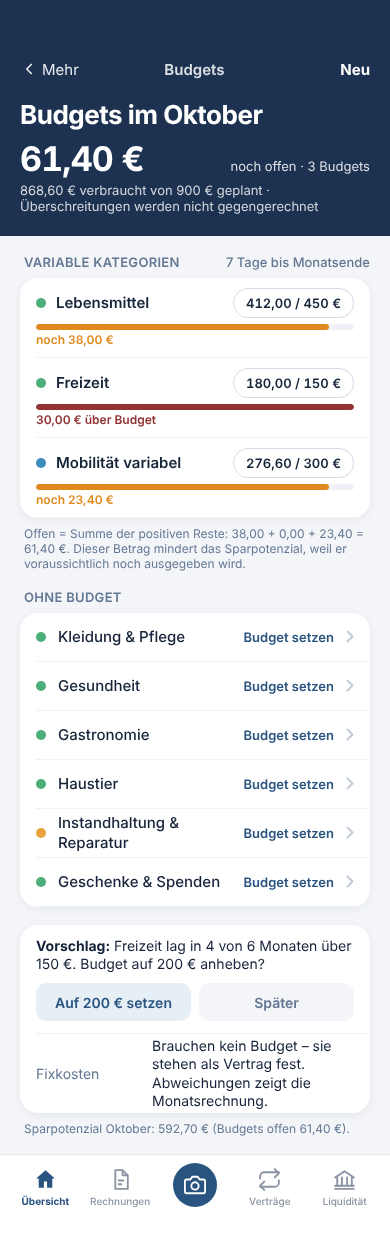
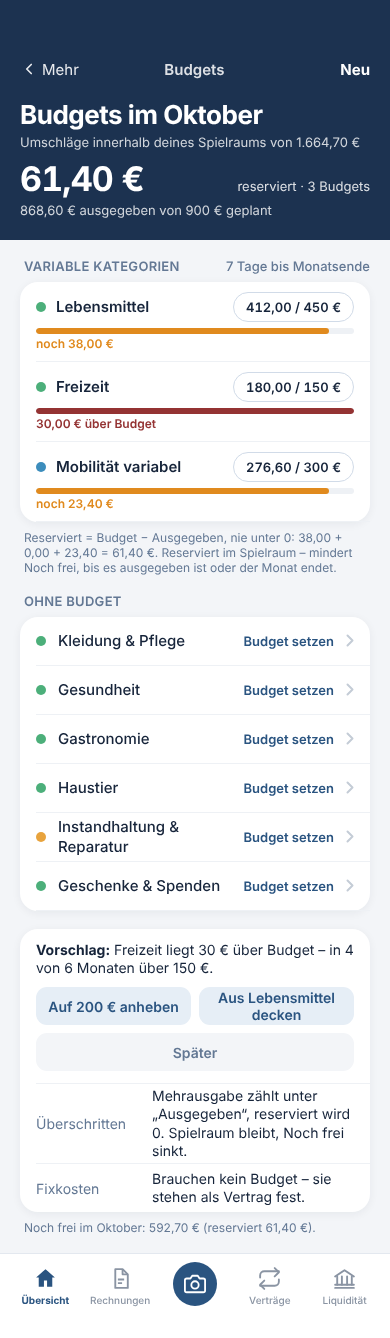
Konzept 2.0.0: Monatsrechnung in drei Stufen – Spielraum, Noch frei, Gespart
Nach Recherche (Finanzguru, Monarch, YNAB, Emma): Sparen ist keine Ausgabe, Budgets sind
Umschläge im Spielraum, Überschreitung macht nichts negativ.
- Kopfzahl heißt 'Noch frei' (statt Sparpotenzial); Spielraum = Einnahmen − Fixkosten − Rücklagen-Raten;
  Noch frei = Spielraum − Ausgegeben − in Budgets reserviert; Gespart = Rücklagen + Überschuss, Sparquote
- Übersicht: Balkenpaar mit Fixkosten · Sparen (grün) · Ausgegeben · Reserviert · Noch frei
- Monatsrechnung: drei Blöcke Monatsanfang / Im Monat / Monatsende mit Zwischensummen
- Budgets: Spielraum im Kopf, Regeln für Reserviert und Überschreitung, 'Aus Lebensmittel decken'
- Alle Texte (Vertrag, Rücklage, Einnahmen, Auswertung, Kontostand) auf die neuen Begriffe umgestellt
- funktionsmodell.md: Glossar und neuer Abschnitt 'Monatsrechnung: drei Stufen'; README/Darstellungsarchitektur angepasst

Claude-Session: https://claude.ai/code/session_0112K5J9EfnvdznECFdoQGko

diff --git a/docs/konzept-2.0.0/design/Monatsrechnung.dc.html b/docs/konzept-2.0.0/design/Monatsrechnung.dc.html
@@ -142,34 +142,48 @@ a{color:#2A5480}
 <div class="scroll">
   <div class="hdr">
     <div class="nav"><a class="back" href="Main.dc.html"><svg aria-hidden="true" width="18" height="18" viewBox="0 0 24 24" fill="none" stroke="currentColor" stroke-width="2.2" stroke-linecap="round" stroke-linejoin="round"><path d="M15 6l-6 6 6 6"/></svg>Übersicht</a><p class="ttl">Oktober 2026</p><span style="width: 60px"></span></div>
-    <h1>Sparpotenzial {{spar}} €</h1>
-    <p class="sub">So setzt sich die Zahl zusammen – jede Zeile führt zur Quelle. Antippen der Pfeile zeigt die Einzelposten.</p>
+    <h1>Noch frei {{spar}} €</h1>
+    <p class="sub">Drei Schritte: Plan am Monatsanfang, Verlauf im Monat, Ergebnis am Monatsende. Pfeile zeigen die Einzelposten.</p>
   </div>
 
   <div style="padding: 18px 20px 0 20px">
+    <h2 class="h2">Monatsanfang · Plan <span>steht fest</span></h2>
     <div class="card">
-      <sc-for list="{{rows}}" as="r" hint-placeholder-count="5">
-        <div class="row" style="padding-right: 8px"><a href="{{r.href}}" style="flex: 1; min-width: 0; text-decoration: none; color: inherit"><p class="n">{{r.name}}</p><p class="s2">{{r.sub}}</p></a><p class="v" style="{{r.st}}">{{r.val}}</p><button class="chip lt" style="height: 30px; width: 30px; padding: 0; justify-content: center" aria-label="Einzelposten" onClick="{{r.toggle}}">{{r.arrow}}</button></div>
+      <sc-for list="{{plan}}" as="r" hint-placeholder-count="3">
+        <div class="row" style="padding-right: 8px"><a href="{{r.href}}" style="flex: 1; min-width: 0; text-decoration: none; color: inherit"><p class="n">{{r.name}}</p><p class="s">{{r.sub}}</p></a><p class="v" style="{{r.st}}">{{r.val}}</p><button class="chip lt" style="height: 30px; width: 30px; padding: 0; justify-content: center" aria-label="Einzelposten" onClick="{{r.toggle}}">{{r.arrow}}</button></div>
         <sc-if value="{{r.open}}" hint-placeholder-val="{{false}}"><div style="padding: 0 16px 10px 16px"><sc-for list="{{r.items}}" as="i" hint-placeholder-count="3"><div style="display: flex; justify-content: space-between; gap: 10px; font-size: 13px; color: #637894; padding: 3px 0"><span style="flex: 1; min-width: 0">{{i.n}}</span><span style="font-variant-numeric: tabular-nums; white-space: nowrap">{{i.v}}</span></div></sc-for></div></sc-if>
         <div class="sep"></div>
       </sc-for>
-      <div class="row" style="background: #F3F5F8; border-radius: 0 0 18px 18px"><div class="mid"><p class="n">Sparpotenzial</p><p class="s">kann am Monatsende in eine Rücklage</p></div><p class="v">{{spar}}</p></div>
+      <div class="row" style="background: #F3F5F8; border-radius: 0 0 18px 18px"><div class="mid"><p class="n">Spielraum (variabel)</p></div><p class="v" style="font-size: 17px">{{raum}}</p></div>
     </div>
   </div>
-
-  <div style="padding: 20px 20px 0 20px">
+  <div style="padding: 18px 20px 0 20px">
+    <h2 class="h2">Im Monat <span>läuft</span></h2>
     <div class="card">
-      <div class="row"><div class="mid"><p class="n">Bereiche</p><p class="s2">Wohnen 1.368,18 · Mobilität 746,19 · Haushalt 881,53</p></div><p class="v">{{areas}}</p></div>
-      <div class="sep"></div>
-      <div class="row"><div class="mid"><p class="n">Fixkosten + Ausgaben + Raten</p><p class="s">1.659,20 + 1.010,60 + 326,10</p></div><p class="v">{{areas2}}</p></div>
+      <sc-for list="{{run}}" as="r" hint-placeholder-count="3">
+        <div class="row" style="padding-right: 8px"><a href="{{r.href}}" style="flex: 1; min-width: 0; text-decoration: none; color: inherit"><p class="n">{{r.name}}</p><p class="s">{{r.sub}}</p></a><p class="v" style="{{r.st}}">{{r.val}}</p><button class="chip lt" style="height: 30px; width: 30px; padding: 0; justify-content: center" aria-label="Einzelposten" onClick="{{r.toggle}}">{{r.arrow}}</button></div>
+        <sc-if value="{{r.open}}" hint-placeholder-val="{{false}}"><div style="padding: 0 16px 10px 16px"><sc-for list="{{r.items}}" as="i" hint-placeholder-count="3"><div style="display: flex; justify-content: space-between; gap: 10px; font-size: 13px; color: #637894; padding: 3px 0"><span style="flex: 1; min-width: 0">{{i.n}}</span><span style="font-variant-numeric: tabular-nums; white-space: nowrap">{{i.v}}</span></div></sc-for></div></sc-if>
+        <div class="sep"></div>
+      </sc-for>
+      <div class="row" style="background: #F3F5F8; border-radius: 0 0 18px 18px"><div class="mid"><p class="n">Noch frei</p></div><p class="v" style="font-size: 17px; color: #215F33">{{spar}}</p></div>
     </div>
-    <p class="note">Nicht enthalten: der Kontostand. Den gibt es nur in der Liquidität.</p>
+  </div>
+  <div style="padding: 18px 20px 0 20px">
+    <h2 class="h2">Monatsende <span>voraussichtlich</span></h2>
+    <div class="card">
+      <div class="row"><div class="mid"><p class="n">Gespart</p><p class="s">Rücklagen {{resFmt}} + Überschuss {{spar}}</p></div><p class="v" style="color: #215F33">{{saved}}</p></div>
+      <div class="sep"></div>
+      <div class="row"><div class="mid"><p class="n">Sparquote</p><p class="s">Gespart ÷ Einnahmen</p></div><p class="v">{{quote}} %</p></div>
+      <div class="sep"></div>
+      <div class="row"><div class="mid"><p class="n">Bereiche zusammen</p><p class="s">Wohnen 1.368,18 · Mobilität 746,19 · Haushalt 881,53</p></div><p class="v">{{areas}}</p></div>
+    </div>
+    <p class="note">Bereiche = Fixkosten + Ausgaben + Rücklagen-Raten = {{areas2}} €. Der Kontostand kommt hier nicht vor – den gibt es nur in der Liquidität.</p>
   </div>
 
   <div style="padding: 16px 20px 0 20px; display: flex; gap: 10px">
-    <button class="btn pri" onClick="{{openTransfer}}">{{spar}} € in Rücklage übertragen</button>
+    <button class="btn pri" onClick="{{openTransfer}}">Überschuss in Rücklage übertragen</button>
   </div>
-<sc-if value="{{transfer}}" hint-placeholder-val="{{false}}"><div class="sheetbg"><div class="sheet"><div class="grab"></div><h3>Wohin übertragen?</h3><p>Der Monat ist noch nicht abgeschlossen – offene Posten können das Sparpotenzial noch ändern. Übertragen wird am Monatsende mit dem dann gültigen Wert.</p><div class="card" style="margin-bottom: 12px"><sc-for list="{{targets}}" as="t" hint-placeholder-count="3"><button class="f" onClick="{{t.pick}}"><p class="v" style="font-weight: 500">{{t.name}}</p><p class="v ph" style="flex: none; width: auto; font-size: 13px">{{t.sub}}</p><span class="{{t.cls}}" style="width: 20px; height: 20px; border-width: 2px"></span></button><div class="sep"></div></sc-for></div><div style="display: flex; gap: 10px"><button class="btn sec2" onClick="{{closeTransfer}}">Abbrechen</button><button class="btn pri" onClick="{{confirmTransfer}}">Vormerken</button></div></div></div></sc-if>
+<sc-if value="{{transfer}}" hint-placeholder-val="{{false}}"><div class="sheetbg"><div class="sheet"><div class="grab"></div><h3>Wohin übertragen?</h3><p>Der Monat ist noch nicht abgeschlossen – offene Posten können den Überschuss noch ändern. Übertragen wird am Monatsende mit dem dann gültigen Wert.</p><div class="card" style="margin-bottom: 12px"><sc-for list="{{targets}}" as="t" hint-placeholder-count="3"><button class="f" onClick="{{t.pick}}"><p class="v" style="font-weight: 500">{{t.name}}</p><p class="v ph" style="flex: none; width: auto; font-size: 13px">{{t.sub}}</p><span class="{{t.cls}}" style="width: 20px; height: 20px; border-width: 2px"></span></button><div class="sep"></div></sc-for></div><div style="display: flex; gap: 10px"><button class="btn sec2" onClick="{{closeTransfer}}">Abbrechen</button><button class="btn pri" onClick="{{confirmTransfer}}">Vormerken</button></div></div></div></sc-if>
 </div>
 
   <nav class="tabbar" aria-label="Hauptnavigation">
@@ -200,13 +214,16 @@ function nbDeep(v, key, depth) {
 
 class Component extends DCLogic {
   constructor(p) { super(p); this.state = { open: {}, transfer: false, target: 0, planned: '', toast: '' };
-    this.ROWS = [
+    this.PLAN = [
       { name: 'Einnahmen', sub: 'Gehalt 3.400 · Kindergeld 250', val: 3650, sign: 1, href: 'Einnahmen.dc.html', items: [['Gehalt Muster AG (30. Okt.)', '3.400,00'], ['Kindergeld (5. Okt.)', '250,00']] },
       { name: 'Fixkosten & Kredite', sub: '16 Verträge · 3 Bereiche', val: 1659.20, sign: -1, href: 'Vertraege.dc.html', items: [['Wohnen · Miete, Strom, Gas, Internet, Rundfunk', '1.218,35'], ['Mobilität · Leasing, D-Ticket, Ladetarif', '356,99'], ['Haushalt · Mobilfunk, Streaming, Fitness', '83,86']] },
-      { name: 'Ausgaben des Monats', sub: 'bezahlt 656,20 · offen 354,40', val: 1010.60, sign: -1, href: 'Rechnungen.dc.html', items: [['Bons Lebensmittel, Freizeit · bezahlt', '592,00'], ['EnBW Laden · bezahlt 16. Okt.', '64,20'], ['Stadtwerke Nachzahlung · überfällig', '142,00'], ['Autohaus Keller · fällig 30. Okt.', '212,40']] },
-      { name: 'Budgets, noch offen', sub: 'Lebensmittel 38,00 · Mobilität 23,40', val: 61.40, sign: -1, href: 'Budgets.dc.html', items: [['Lebensmittel 450 − 412', '38,00'], ['Mobilität variabel 300 − 276,60', '23,40'], ['Freizeit 150 − 180 · überschritten', '0,00']] },
-      { name: 'Rücklagen-Raten', sub: '6 Raten · Urlaub, Kfz, Versicherungen', val: 326.10, sign: -1, href: 'Ruecklage.dc.html', items: [['Urlaub Juli (Sparziel)', '200,00'], ['HU und Reifen (Termin)', '60,00'], ['Kfz-Versicherung 487,20 ÷ 12', '40,60'], ['Kfz-Steuer 144 ÷ 12', '12,00'], ['Hausrat 94 ÷ 12', '7,83'], ['Haftpflicht 68 ÷ 12', '5,67']] }
-    ]; }
+      { name: 'Rücklagen-Raten', sub: 'Sparen mit Zweck · 6 Raten', val: 326.10, sign: -1, href: 'Ruecklage.dc.html', items: [['Urlaub Juli (Sparziel)', '200,00'], ['HU und Reifen (Termin)', '60,00'], ['Kfz-Versicherung 487,20 ÷ 12', '40,60'], ['Kfz-Steuer 144 ÷ 12', '12,00'], ['Hausrat 94 ÷ 12', '7,83'], ['Haftpflicht 68 ÷ 12', '5,67']] }
+    ];
+    this.RUN = [
+      { name: 'Ausgegeben', sub: 'bezahlt 656,20 · offen 354,40', val: 1010.60, sign: -1, href: 'Rechnungen.dc.html', items: [['Bons Lebensmittel, Freizeit · bezahlt', '592,00'], ['EnBW Laden · bezahlt 16. Okt.', '64,20'], ['Stadtwerke Nachzahlung · überfällig', '142,00'], ['Autohaus Keller · fällig 30. Okt.', '212,40']] },
+      { name: 'In Budgets reserviert', sub: 'Budget − Ist, nie unter 0', val: 61.40, sign: -1, href: 'Budgets.dc.html', items: [['Lebensmittel 450 − 412', '38,00'], ['Mobilität variabel 300 − 276,60', '23,40'], ['Freizeit 150 − 180 · überschritten', '0,00']] }
+    ];
+    }
 
   segItems(key, options) { var self = this; return options.map(function (o) { return { label: o[1], cls: self.state[key] === o[0] ? 'on' : '', pick: function () { var s = {}; s[key] = o[0]; self.setState(s); } }; }); }
   chipItems(key, options, light) { var self = this; var base = light ? 'chip lt' : 'chip'; return options.map(function (o) { return { label: o[1], cls: self.state[key] === o[0] ? base + ' on' : base, pick: function () { var s = {}; s[key] = o[0]; self.setState(s); } }; }); }
@@ -218,15 +235,18 @@ class Component extends DCLogic {
 
   renderVals() {
     var self = this, s = this.state;
-    var spar = this.ROWS.reduce(function (a, r) { return a + r.sign * r.val; }, 0);
+    var raum = this.PLAN.reduce(function (a, r) { return a + r.sign * r.val; }, 0);
+    var spar = raum + this.RUN.reduce(function (a, r) { return a + r.sign * r.val; }, 0);
+    var res = 326.10, saved = res + spar, quote = Math.round(saved / 3650 * 100);
+    var mkRows = function (list, key) { return list.map(function (r, i) { var id = key + i, open = !!s.open[id]; return { name: r.name, sub: r.sub, val: (r.sign > 0 ? '+' : '−') + eur(r.val), st: r.sign > 0 ? 'color: #215F33' : '', href: r.href, open: open, arrow: open ? '▾' : '▸', items: r.items.map(function (x) { return { n: x[0], v: x[1] }; }), toggle: function () { var o = Object.assign({}, s.open); o[id] = !open; self.setState({ open: o }); } }; }); };
     var targets = [['Urlaub Juli', 'Sparziel · 640 von 1.800 €'], ['HU und Reifen', 'Termin · 120 von 190 €'], ['Neue Rücklage anlegen', 'Name und Ziel im nächsten Schritt']];
     return {
       toast: s.toast,
-      spar: eur(spar), areas: eur(1368.18 + 746.19 + 881.53), areas2: eur(1659.20 + 1010.60 + 326.10),
-      rows: this.ROWS.map(function (r, i) { var open = !!s.open[i]; return { name: r.name, sub: r.sub, val: (r.sign > 0 ? '+' : '−') + eur(r.val), st: r.sign > 0 ? 'color: #215F33' : '', href: r.href, open: open, arrow: open ? '▾' : '▸', items: r.items.map(function (x) { return { n: x[0], v: x[1] }; }), toggle: function () { var o = Object.assign({}, s.open); o[i] = !open; self.setState({ open: o }); } }; }),
+      spar: eur(spar), raum: eur(raum), resFmt: eur(res), saved: eur(saved), quote: quote, areas: eur(1368.18 + 746.19 + 881.53), areas2: eur(1659.20 + 1010.60 + 326.10),
+      plan: mkRows(this.PLAN, 'p'), run: mkRows(this.RUN, 'r'),
       transfer: s.transfer, openTransfer: this.go('transfer', true), closeTransfer: this.go('transfer', false),
       targets: targets.map(function (t, i) { return { name: t[0], sub: t[1], cls: s.target === i ? 'chk on' : 'chk', pick: function () { self.setState({ target: i }); } }; }),
-      confirmTransfer: function () { self.setState({ transfer: false, planned: targets[s.target][0] }); self.say('Vorgemerkt: Sparpotenzial am 31. Okt. → ' + targets[s.target][0]); }
+      confirmTransfer: function () { self.setState({ transfer: false, planned: targets[s.target][0] }); self.say('Vorgemerkt: Überschuss am 31. Okt. → ' + targets[s.target][0]); }
     };
   }
 }

diff --git a/docs/konzept-2.0.0/design/Budgets.dc.html b/docs/konzept-2.0.0/design/Budgets.dc.html
@@ -143,8 +143,9 @@ a{color:#2A5480}
   <div class="hdr">
     <div class="nav"><a class="back" href="Mehr.dc.html"><svg aria-hidden="true" width="18" height="18" viewBox="0 0 24 24" fill="none" stroke="currentColor" stroke-width="2.2" stroke-linecap="round" stroke-linejoin="round"><path d="M15 6l-6 6 6 6"/></svg>Mehr</a><p class="ttl">Budgets</p><button class="act" onClick="{{openNew}}">Neu</button></div>
     <h1>Budgets im Oktober</h1>
-    <div style="display: flex; align-items: baseline; justify-content: space-between; gap: 14px; margin-top: 12px"><p class="big" style="margin: 0">{{offen}} €</p><p style="margin: 0; font-size: 13px; opacity: .85; text-align: right; white-space: nowrap">noch offen · {{count}} Budgets</p></div>
-    <p class="sub">{{verbraucht}} € verbraucht von {{geplant}} € geplant · Überschreitungen werden nicht gegengerechnet</p>
+    <p class="sub" style="margin-top: 4px">Umschläge innerhalb deines Spielraums von 1.664,70 €</p>
+    <div style="display: flex; align-items: baseline; justify-content: space-between; gap: 14px; margin-top: 12px"><p class="big" style="margin: 0">{{offen}} €</p><p style="margin: 0; font-size: 13px; opacity: .85; text-align: right; white-space: nowrap">reserviert · {{count}} Budgets</p></div>
+    <p class="sub">{{verbraucht}} € ausgegeben von {{geplant}} € geplant</p>
   </div>
 
   <div style="padding: 18px 20px 0 20px">
@@ -159,7 +160,7 @@ a{color:#2A5480}
         <div class="sep"></div>
       </sc-for>
     </div>
-    <p class="note">{{formula}} Dieser Betrag mindert das Sparpotenzial, weil er voraussichtlich noch ausgegeben wird.</p>
+    <p class="note">{{formula}} Reserviert im Spielraum – mindert Noch frei, bis es ausgegeben ist oder der Monat endet.</p>
   </div>
 
   <div style="padding: 18px 20px 0 20px">
@@ -175,8 +176,10 @@ a{color:#2A5480}
 
   <div style="padding: 18px 20px 0 20px">
     <div class="card">
-      <sc-if value="{{showSug}}" hint-placeholder-val="{{true}}"><div class="f" style="flex-direction: column; align-items: stretch; gap: 10px; padding-top: 12px; padding-bottom: 12px"><p class="v wrap"><b>Vorschlag:</b> Freizeit lag in 4 von 6 Monaten über 150 €. Budget auf 200 € anheben?</p><div style="display: flex; gap: 8px"><button class="btn sec2 sm" onClick="{{applySug}}">Auf 200 € setzen</button><button class="btn sm" style="background: #F3F5F8; color: #637894" onClick="{{dismissSug}}">Später</button></div></div><div class="sep"></div></sc-if>
-      <div class="f"><p class="l">Fixkosten</p><p class="v wrap">Brauchen kein Budget – sie stehen als Vertrag fest. Abweichungen zeigt die Monatsrechnung.</p></div>
+      <sc-if value="{{showSug}}" hint-placeholder-val="{{true}}"><div class="f" style="flex-direction: column; align-items: stretch; gap: 10px; padding-top: 12px; padding-bottom: 12px"><p class="v wrap"><b>Vorschlag:</b> Freizeit liegt 30 € über Budget – in 4 von 6 Monaten über 150 €.</p><div style="display: flex; gap: 8px; flex-wrap: wrap"><button class="btn sec2 sm" style="flex: 1 1 150px" onClick="{{applySug}}">Auf 200 € anheben</button><button class="btn sec2 sm" style="flex: 1 1 150px" onClick="{{coverSug}}">Aus Lebensmittel decken</button><button class="btn sm" style="background: #F3F5F8; color: #637894" onClick="{{dismissSug}}">Später</button></div></div><div class="sep"></div></sc-if>
+      <div class="f"><p class="l">Überschritten</p><p class="v wrap">Mehrausgabe zählt unter „Ausgegeben“, reserviert wird 0. Spielraum bleibt, Noch frei sinkt.</p></div>
+      <div class="sep"></div>
+      <div class="f"><p class="l">Fixkosten</p><p class="v wrap">Brauchen kein Budget – sie stehen als Vertrag fest.</p></div>
     </div>
     <p class="note">{{sparNote}}</p>
   </div>
@@ -234,18 +237,19 @@ class Component extends DCLogic {
       offen: eur(offen), count: s.budgets.length, geplant: eur(geplant, 0), verbraucht: eur(verbraucht),
       rows: s.budgets.map(function (b) { var over = b.spent > b.budget, pct = b.budget > 0 ? Math.min(100, Math.round(b.spent / b.budget * 100)) : 100, left = b.budget - b.spent, c = over ? '#943333' : (pct >= 85 ? '#E08A1E' : '#2A5480');
         return { name: b.name, href: b.href, dotst: 'background: ' + col[b.area], amounts: eur(b.spent) + ' / ' + eur(b.budget, 0) + ' €', barst: 'width: ' + pct + '%; background: ' + c, stst: 'color: ' + c + '; font-weight: 600', state: over ? eur(-left) + ' € über Budget' : 'noch ' + eur(left) + ' €', edit: function () { self.setState({ sheet: 'edit', editId: b.id, amt: eur(b.budget), roll: !!b.roll }); } }; }),
-      formula: 'Offen = Summe der positiven Reste: ' + parts.join(' + ') + ' = ' + eur(offen) + ' €.',
+      formula: 'Reserviert = Budget − Ausgegeben, nie unter 0: ' + parts.join(' + ') + ' = ' + eur(offen) + ' €.',
       without: s.pool.map(function (p) { return { name: p.name, dotst: 'background: ' + col[p.area], add: function () { self.setState({ sheet: 'new', newCat: p.id, amt: '', roll: false }); } }; }),
       noneWithout: s.pool.length === 0,
       showSug: s.showSug && s.budgets.some(function (b) { return b.id === 'fz' && b.budget < 200; }),
+      coverSug: function () { var b = s.budgets.map(function (x) { return x.id === 'lm' ? Object.assign({}, x, { budget: x.budget - 30 }) : (x.id === 'fz' ? Object.assign({}, x, { budget: x.budget + 30 }) : x); }); self.setState({ budgets: b, showSug: false }); self.say('30 € von Lebensmittel nach Freizeit – reserviert jetzt ' + eur(Math.max(0, offen - 30)) + ' €'); },
       applySug: function () { self.setState({ budgets: s.budgets.map(function (b) { return b.id === 'fz' ? Object.assign({}, b, { budget: 200 }) : b; }), showSug: false }); self.say('Freizeit-Budget 200 € · offen jetzt ' + eur(offen + 20) + ' €'); },
       dismissSug: function () { self.setState({ showSug: false }); },
-      sparNote: Math.abs(delta) < 0.005 ? 'Sparpotenzial Oktober: 592,70 € (Budgets offen 61,40 €).' : 'Sparpotenzial Oktober jetzt ' + eur(592.70 - delta) + ' € (Budgets offen ' + eur(offen) + ' € statt 61,40 €).',
+      sparNote: Math.abs(delta) < 0.005 ? 'Noch frei im Oktober: 592,70 € (reserviert 61,40 €).' : 'Noch frei im Oktober jetzt ' + eur(592.70 - delta) + ' € (reserviert ' + eur(offen) + ' € statt 61,40 €).',
       sheet: !!s.sheet, isNew: s.sheet === 'new', canRemove: s.sheet === 'edit',
       sheetTitle: s.sheet === 'new' ? 'Budget setzen' : 'Budget ändern', sheetText: s.sheet === 'new' ? 'Ein Budget gilt pro Monat für eine variable Kategorie.' : (editing ? editing.name + ' · bisher ' + eur(editing.spent) + ' € ausgegeben' : ''),
       catOptions: s.pool.map(function (p) { return { t: p.name, cls: s.newCat === p.id ? 'chip lt on' : 'chip lt', pick: function () { self.setState({ newCat: p.id }); } }; }),
       amt: s.amt, setAmt: this.set('amt'), rollCls: this.tog('roll'), flipRoll: this.flip('roll'),
-      sheetHint: a > 0 ? (editing ? (a > editing.spent ? 'Noch ' + eur(a - editing.spent) + ' € frei · Budgets offen ' + eur(offen - Math.max(0, editing.budget - editing.spent) + (a - editing.spent)) + ' €' : eur(editing.spent - a) + ' € über Budget – offen 0') : 'Noch ' + eur(a) + ' € frei – Budgets offen steigen auf ' + eur(offen + a) + ' €, Sparpotenzial sinkt entsprechend.') : 'Betrag eingeben.',
+      sheetHint: a > 0 ? (editing ? (a > editing.spent ? 'Noch ' + eur(a - editing.spent) + ' € frei · Budgets offen ' + eur(offen - Math.max(0, editing.budget - editing.spent) + (a - editing.spent)) + ' €' : eur(editing.spent - a) + ' € über Budget – offen 0') : 'Noch ' + eur(a) + ' € frei – Budgets offen steigen auf ' + eur(offen + a) + ' €, Noch frei sinkt entsprechend.') : 'Betrag eingeben.',
       openNew: function () { if (!s.pool.length) { self.say('Alle variablen Kategorien haben ein Budget'); return; } self.setState({ sheet: 'new', newCat: s.pool[0].id, amt: '', roll: false }); },
       closeSheet: this.go('sheet', ''),
       saveSheet: function () {

diff --git a/docs/konzept-2.0.0/design/Ruecklage.dc.html b/docs/konzept-2.0.0/design/Ruecklage.dc.html
@@ -172,7 +172,7 @@ a{color:#2A5480}
       <div class="sep"></div>
       <div class="f"><p class="l">Nächste Rate</p><p class="v">1. Nov. 2026</p></div>
       <div class="sep"></div>
-      <div class="f"><p class="l">Wirkung</p><p class="v wrap">mindert das Sparpotenzial um {{rateFmt}} €/Monat; Kontostand unverändert</p></div>
+      <div class="f"><p class="l">Wirkung</p><div class="vc"><p class="v">Sparen</p><p class="v2">Spielraum −{{rateFmt}} €/Monat</p></div></div>
       <div class="sep"></div>
       <button class="f" onClick="{{cycleReached}}"><p class="l">Wenn erreicht</p><p class="v">{{reachedText}}</p><svg class="chev" aria-hidden="true" viewBox="0 0 8 13" fill="none" stroke="#C4CCD6" stroke-width="2" stroke-linecap="round" stroke-linejoin="round"><path d="M1.5 1.5l5 5-5 5"/></svg></button>
     </div>
@@ -224,7 +224,7 @@ function nbDeep(v, key, depth) {
 
 class Component extends DCLogic {
   constructor(p) { super(p); this.state = { name: 'Urlaub Juli', stand: 640, ziel: 1800, rate: 200, datum: '15. Juli 2027', edit: false, nameDraft: '', zielDraft: '', rateDraft: '', datumDraft: '', reached: 0, move: '', moveAmt: '', moveNote: '', confirmClose: false, toast: '',
-    hist: [ { name: 'Rate Oktober', sub: '1. Okt. · automatisch', val: '+200,00', st: 'color: #215F33' }, { name: 'Rate September', sub: '1. Sep. · automatisch', val: '+200,00', st: 'color: #215F33' }, { name: 'Sparpotenzial August', sub: '31. Aug. · manuell übertragen', val: '+240,00', st: 'color: #215F33' } ] }; }
+    hist: [ { name: 'Rate Oktober', sub: '1. Okt. · automatisch', val: '+200,00', st: 'color: #215F33' }, { name: 'Rate September', sub: '1. Sep. · automatisch', val: '+200,00', st: 'color: #215F33' }, { name: 'Überschuss August', sub: '31. Aug. · manuell übertragen', val: '+240,00', st: 'color: #215F33' } ] }; }
 
   segItems(key, options) { var self = this; return options.map(function (o) { return { label: o[1], cls: self.state[key] === o[0] ? 'on' : '', pick: function () { var s = {}; s[key] = o[0]; self.setState(s); } }; }); }
   chipItems(key, options, light) { var self = this; var base = light ? 'chip lt' : 'chip'; return options.map(function (o) { return { label: o[1], cls: self.state[key] === o[0] ? base + ' on' : base, pick: function () { var s = {}; s[key] = o[0]; self.setState(s); } }; }); }
@@ -248,15 +248,15 @@ class Component extends DCLogic {
       toggleEdit: function () { self.setState({ edit: !s.edit, nameDraft: s.name, zielDraft: eur(s.ziel), rateDraft: eur(s.rate), datumDraft: s.datum }); },
       nameDraft: s.nameDraft, setNameDraft: this.set('nameDraft'), zielDraft: s.zielDraft, setZielDraft: this.set('zielDraft'), rateDraft: s.rateDraft, setRateDraft: this.set('rateDraft'), datumDraft: s.datumDraft, setDatumDraft: this.set('datumDraft'),
       calcRate: function () { var r = Math.max(0, dZ - s.stand) / 9; self.setState({ rateDraft: eur(r) }); self.say('9 Raten bis ' + s.datumDraft + ': ' + eur(r) + ' €/Monat'); },
-      editNote: dZ > 0 ? 'Mit Ziel ' + eur(dZ) + ' € und Rate ' + eur(dR) + ' €: ' + (dR > 0 ? Math.ceil(Math.max(0, dZ - s.stand) / dR) + ' Raten' : 'keine Rate') + ' · Sparpotenzial sinkt um ' + eur(dR) + ' €/Monat.' : 'Zielbetrag eingeben.',
+      editNote: dZ > 0 ? 'Mit Ziel ' + eur(dZ) + ' € und Rate ' + eur(dR) + ' €: ' + (dR > 0 ? Math.ceil(Math.max(0, dZ - s.stand) / dR) + ' Raten' : 'keine Rate') + ' · Spielraum sinkt um ' + eur(dR) + ' €/Monat.' : 'Zielbetrag eingeben.',
       saveEdit: function () { if (!(dZ > 0)) { self.say('Zielbetrag fehlt'); return; } self.setState({ name: s.nameDraft.trim() || s.name, ziel: dZ, rate: dR, datum: s.datumDraft || s.datum, edit: false }); self.say('Gespeichert'); },
       askClose: this.go('confirmClose', true), cancelClose: this.go('confirmClose', false), confirmClose: s.confirmClose,
-      closeText: eur(s.stand) + ' € werden freigegeben und erscheinen im Oktober als Sparpotenzial. Der Verlauf bleibt in der Auswertung.',
+      closeText: eur(s.stand) + ' € werden freigegeben und erscheinen im Oktober unter Noch frei. Der Verlauf bleibt in der Auswertung.',
       rateFmt: eur(s.rate), ratenText: raten > 0 ? raten + ' Raten bis ' + s.datum.split(' ')[1] : 'Ziel erreicht – Rate läuft aus',
       reachedText: reachedOpts[s.reached], cycleReached: function () { self.setState({ reached: (s.reached + 1) % reachedOpts.length }); },
       hist: s.hist,
       move: !!s.move, moveTitle: s.move === 'in' ? 'Einzahlen' : 'Entnehmen',
-      moveText: s.move === 'in' ? 'Einmalig zusätzlich zurücklegen, z. B. Sparpotenzial des Monats. Der Kontostand ändert sich nicht.' : 'Aus der Rücklage bezahlen. Der Betrag belastet den Monat nicht – er war schon zurückgelegt.',
+      moveText: s.move === 'in' ? 'Einmalig zusätzlich zurücklegen, z. B. den Überschuss des Monats. Der Kontostand ändert sich nicht.' : 'Aus der Rücklage bezahlen. Der Betrag belastet den Monat nicht – er war schon zurückgelegt.',
       moveAmt: s.moveAmt, setMoveAmt: this.set('moveAmt'), moveNote: s.moveNote, setMoveNote: this.set('moveNote'),
       openIn: function () { self.setState({ move: 'in', moveAmt: '', moveNote: '' }); }, openOut: function () { self.setState({ move: 'out', moveAmt: '', moveNote: '' }); }, closeMove: this.go('move', ''),
       confirmMove: function () {

diff --git a/docs/konzept-2.0.0/design/Main.dc.html b/docs/konzept-2.0.0/design/Main.dc.html
@@ -149,12 +149,13 @@ a{color:#2A5480}
   <div style="padding: 0 20px; margin-top: -40px">
     <a href="Monatsrechnung.dc.html" class="card" style="display: block; padding: 14px 16px 12px; text-decoration: none; color: inherit">
       <div class="mb"><p class="ml">Einnahmen</p><div class="mt"><i style="width: 100%; background: #2F8F5B"></i></div><p class="mv" style="color: #215F33">{{k.ein}}</p></div>
-      <div class="mb"><p class="ml">Ausgaben</p><div class="mt"><i style="{{bar.fix}}"></i><i style="{{bar.aus}}"></i><i style="{{bar.bud}}"></i><i style="{{bar.res}}"></i></div><p class="mv">{{k.out}}</p></div>
+      <div class="mb"><p class="ml">Verwendung</p><div class="mt"><i style="{{bar.fix}}"></i><i style="{{bar.res}}"></i><i style="{{bar.aus}}"></i><i style="{{bar.bud}}"></i></div><p class="mv">{{k.out}}</p></div>
       <div class="lg">
         <span><i style="background: #1C3250"></i>Fixkosten {{k.fix}}</span>
-        <span><i style="background: #3C8DBC"></i>Ausgaben {{k.aus}}</span>
-        <span><i style="background: #9CC3DC"></i>Budgets {{k.bud}}</span>
-        <span><i style="background: #E8A33D"></i>Rücklagen {{k.res}}</span>
+        <span><i style="background: #2F8F5B"></i>Sparen {{k.res}}</span>
+        <span><i style="background: #3C8DBC"></i>Ausgegeben {{k.aus}}</span>
+        <span><i style="background: #B9D3E6"></i>Reserviert {{k.bud}}</span>
+        <span><i style="background: #EEF1F5; border: 1px solid #C9D3DF; box-sizing: border-box"></i>Noch frei {{k.spar}}</span>
       </div>
     </a>
   </div>
@@ -247,10 +248,10 @@ class Component extends DCLogic {
       monthLabel: months[m],
       prevMonth: function () { if (m < months.length - 1) self.setState({ m: m + 1 }); else self.say('Ältere Monate: Mehr › Auswertung'); },
       nextMonth: function () { if (m > 0) self.setState({ m: m - 1 }); else self.say('Oktober ist der laufende Monat'); },
-      spar: eur(spar), sparLabel: (m === 0 ? 'Sparpotenzial ' : 'Ergebnis ') + months[m].split(' ')[0],
-      sparSub: m === 0 ? 'bleibt von ' + eur(d.ein) + ' € Einnahmen · ' + eur(d.off) + ' € noch offen' : 'Monat abgeschlossen · von ' + eur(d.ein) + ' € Einnahmen',
-      k: { ein: eur(d.ein), out: eur(out), fix: eur(d.fix, 0), aus: eur(aus, 0), bud: eur(d.bud, 0), res: eur(d.res, 0), offen: eur(d.off) },
-      bar: { fix: 'width: ' + pct(d.fix) + '%; background: #1C3250', aus: 'width: ' + pct(aus) + '%; background: #3C8DBC', bud: 'width: ' + pct(d.bud) + '%; background: #9CC3DC', res: 'width: ' + pct(d.res) + '%; background: #E8A33D' },
+      spar: eur(spar), sparLabel: (m === 0 ? 'Noch frei im ' : 'Überschuss im ') + months[m].split(' ')[0],
+      sparSub: m === 0 ? 'von ' + eur(d.ein - d.fix - d.res) + ' € Spielraum · ' + eur(d.off) + ' € davon noch offen' : 'Monat abgeschlossen · Gespart ' + eur(d.res + spar) + ' € inkl. Rücklagen',
+      k: { ein: eur(d.ein), out: eur(out), fix: eur(d.fix, 0), aus: eur(aus, 0), bud: eur(d.bud, 0), res: eur(d.res, 0), spar: eur(spar, 0), offen: eur(d.off) },
+      bar: { fix: 'width: ' + pct(d.fix) + '%; background: #1C3250', aus: 'width: ' + pct(aus) + '%; background: #3C8DBC', bud: 'width: ' + pct(d.bud) + '%; background: #B9D3E6', res: 'width: ' + pct(d.res) + '%; background: #2F8F5B' },
       a: { ws: warn(d.ws), ms: warn(d.ms), hs: warn(d.hs), w: eur(d.w, 0), mo: eur(d.mo, 0), h: eur(d.h, 0), wb: share(d.w, '#E8A33D'), mb: share(d.mo, '#3C8DBC'), hb: share(d.h, '#4CAF7A') },
       sumAreas: eur(d.w + d.mo + d.h),
       due: due, noDue: due.length === 0,

diff --git a/docs/konzept-2.0.0/design/generator/check3.js b/docs/konzept-2.0.0/design/generator/check3.js
@@ -7,7 +7,7 @@ function load(f){const html=fs.readFileSync(path.join("project",f+".dc.html"),"u
 let fails=0;const nrm=x=>typeof x==="string"?x.replace(/\u00A0/g," "):x;const eq=(name,a,b)=>{a=nrm(a);b=nrm(b);const ok=a===b;if(!ok)fails++;console.log((ok?"  ok  ":"  FAIL")+" "+name+(ok?"":"  → got "+JSON.stringify(a)+" expected "+JSON.stringify(b)));};
 const ev=v=>({target:{value:v}});
 let c,v;
-console.log("Main");c=load("Main");v=c.renderVals();eq("Sparpotenzial",v.spar,"592,70");eq("Bereiche",v.sumAreas,"2.995,90");eq("sum==fix+aus+res",v.sumAreas,(()=>{return "2.995,90"})());
+console.log("Main");c=load("Main");v=c.renderVals();eq("Noch frei",v.spar,"592,70");eq("Bereiche",v.sumAreas,"2.995,90");eq("sum==fix+aus+res",v.sumAreas,(()=>{return "2.995,90"})());
 v.prevMonth();v=c.renderVals();eq("Sept Ergebnis",v.spar,"840,00");eq("Sept Bereiche = fix+aus+res",v.sumAreas,"2.810,00");v.prevMonth();v=c.renderVals();eq("Aug Bereiche konsistent",v.sumAreas,"2.740,00");eq("Aug fix+aus+res",(1659.20+754.70+326.10).toFixed(2),"2740.00");
 console.log("Wohnen");c=load("Wohnen");v=c.renderVals();eq("total",v.total,"1.368,18");eq("rows",v.rows.length,8);
 console.log("Akte (Mobilität)");c=load("Akte");v=c.renderVals();eq("total",v.total,"746,19");v.objChips[1].pick();v=c.renderVals();eq("VW ID.3 total",v.total,"688,19");v.objChips[2].pick();v=c.renderVals();eq("Ticket total",v.total,"58,00");eq("Ticket rows",v.rows.length,1);
@@ -17,7 +17,7 @@ console.log("Rechnung");c=load("Rechnung");v=c.renderVals();eq("cap",v.cap,"Übe
 console.log("Review");c=load("Review");v=c.renderVals();eq("7 von 8",v.okCount,7);v.setPayee(ev("Autohaus Keller GmbH"));v=c.renderVals();eq("8 von 8",v.okCount,8);v.setAmount(ev("212,50"));v=c.renderVals();eq("abweichend",v.amountCap,"abweichend");v.setIban(ev("DE12 5001 0517 5407 3249 32"));v=c.renderVals();eq("iban falsch",v.ibanCap,"Prüfen");
 console.log("Vertraege");c=load("Vertraege");v=c.renderVals();eq("summary",v.summary.indexOf("16 Verträge · 1.713,30 € im Monat")>=0,true);
 console.log("VertragNeu");c=load("VertragNeu");v=c.renderVals();console.log("   keys:",Object.keys(v).filter(k=>/month|monat|rate/i.test(k)).join(","));
-console.log("Budgets");c=load("Budgets");v=c.renderVals();eq("offen",v.offen,"61,40");eq("verbraucht",v.verbraucht,"868,60");v.applySug();v=c.renderVals();eq("offen nach 200",v.offen,"81,40");eq("spar note",v.sparNote,"Sparpotenzial Oktober jetzt 572,70 € (Budgets offen 81,40 € statt 61,40 €).");
+console.log("Budgets");c=load("Budgets");v=c.renderVals();eq("offen",v.offen,"61,40");eq("verbraucht",v.verbraucht,"868,60");v.applySug();v=c.renderVals();eq("offen nach 200",v.offen,"81,40");eq("spar note",v.sparNote,"Noch frei im Oktober jetzt 572,70 € (reserviert 81,40 € statt 61,40 €).");
 console.log("Einnahmen");c=load("Einnahmen");v=c.renderVals();eq("total",v.total,"3.650,00");eq("erwartet",v.expected,"3.400,00");v.openNew();v.setFName(ev("Rückerstattung"));v.setFAmt(ev("51,30"));v.saveSheet();v=c.renderVals();eq("total+51,30",v.total,"3.701,30");
 console.log("Kasse");c=load("Kasse");v=c.renderVals();eq("saldo",v.saldo,"86,50");eq("bons",v.bonCount,5);
 console.log("Ruecklage");c=load("Ruecklage");v=c.renderVals();eq("pct",v.pct,36);eq("raten",v.ratenText,"6 Raten bis Juli");v.openIn();v.setMoveAmt(ev("100"));v.confirmMove();v=c.renderVals();eq("stand 740",v.standFmt,"740,00");v.openOut();v.setMoveAmt(ev("900"));v.confirmMove();v=c.renderVals();eq("entnahme zu hoch blockiert",v.standFmt,"740,00");

diff --git a/docs/konzept-2.0.0/design/Mehr.dc.html b/docs/konzept-2.0.0/design/Mehr.dc.html
@@ -153,7 +153,7 @@ a{color:#2A5480}
       <div class="sep"></div>
       <a class="row" href="Einnahmen.dc.html"><span class="c" style="background: #215F33"><svg aria-hidden="true" width="17" height="17" viewBox="0 0 24 24" fill="none" stroke="currentColor" stroke-width="2.2" stroke-linecap="round" stroke-linejoin="round"><path d="M12 19V5M5 12l7-7 7 7"/></svg></span><div class="mid"><p class="n">Einnahmen</p><p class="s">3.650,00 € im Oktober</p></div><svg class="chev" aria-hidden="true" viewBox="0 0 8 13" fill="none" stroke="#C4CCD6" stroke-width="2" stroke-linecap="round" stroke-linejoin="round"><path d="M1.5 1.5l5 5-5 5"/></svg></a>
       <div class="sep"></div>
-      <a class="row" href="Monatsrechnung.dc.html"><span class="c" style="background: #2A5480"><svg aria-hidden="true" width="17" height="17" viewBox="0 0 24 24" fill="none" stroke="currentColor" stroke-width="2" stroke-linecap="round"><path d="M5 4h14v16H5zM9 9h6M9 13h6M9 17h3"/></svg></span><div class="mid"><p class="n">Monatsrechnung</p><p class="s">Sparpotenzial 592,70 € · Herleitung</p></div><svg class="chev" aria-hidden="true" viewBox="0 0 8 13" fill="none" stroke="#C4CCD6" stroke-width="2" stroke-linecap="round" stroke-linejoin="round"><path d="M1.5 1.5l5 5-5 5"/></svg></a>
+      <a class="row" href="Monatsrechnung.dc.html"><span class="c" style="background: #2A5480"><svg aria-hidden="true" width="17" height="17" viewBox="0 0 24 24" fill="none" stroke="currentColor" stroke-width="2" stroke-linecap="round"><path d="M5 4h14v16H5zM9 9h6M9 13h6M9 17h3"/></svg></span><div class="mid"><p class="n">Monatsrechnung</p><p class="s">Noch frei 592,70 € · Herleitung</p></div><svg class="chev" aria-hidden="true" viewBox="0 0 8 13" fill="none" stroke="#C4CCD6" stroke-width="2" stroke-linecap="round" stroke-linejoin="round"><path d="M1.5 1.5l5 5-5 5"/></svg></a>
       <div class="sep"></div>
       <a class="row" href="Kalender.dc.html"><span class="c" style="background: #637894"><svg aria-hidden="true" width="17" height="17" viewBox="0 0 24 24" fill="none" stroke="currentColor" stroke-width="2" stroke-linejoin="round"><rect x="3" y="5" width="18" height="16" rx="2"/><path d="M3 10h18M8 3v4M16 3v4"/></svg></span><div class="mid"><p class="n">Kalender</p><p class="s">Fälligkeiten und Termine im Monatsblick</p></div><svg class="chev" aria-hidden="true" viewBox="0 0 8 13" fill="none" stroke="#C4CCD6" stroke-width="2" stroke-linecap="round" stroke-linejoin="round"><path d="M1.5 1.5l5 5-5 5"/></svg></a>
       <div class="sep"></div>

diff --git a/docs/konzept-2.0.0/design/Einnahmen.dc.html b/docs/konzept-2.0.0/design/Einnahmen.dc.html
@@ -154,7 +154,7 @@ a{color:#2A5480}
         <div class="sep"></div>
       </sc-for>
     </div>
-    <p class="note">Wiederkehrende Einnahmen werden je Monat geplant und zählen ab dem Eingangstag in die Liquidität. Das Sparpotenzial rechnet immer mit dem vollen Monat: {{sparNote}}</p>
+    <p class="note">Wiederkehrende Einnahmen werden je Monat geplant und zählen ab dem Eingangstag in die Liquidität. Spielraum und Noch frei rechnen immer mit dem vollen Monat: {{sparNote}}</p>
   </div>
 
   <div style="padding: 18px 20px 0 20px">
@@ -230,7 +230,7 @@ class Component extends DCLogic {
       toast: s.toast,
       total: eur(total), received: eur(rec), expected: eur(exp),
       items: s.items.map(function (i) { return { name: i.name, sub: self.dayName(i.date) + ' · ' + recLabel[i.rec], amt: eur(i.amt), state: i.st === 'in' ? 'eingegangen' : 'erwartet', open: openEdit(i) }; }),
-      sparNote: total === 3650 ? 'Einnahmen 3.650,00 € → Sparpotenzial 592,70 €.' : 'Einnahmen ' + eur(total) + ' € → Sparpotenzial ' + eur(592.70 + total - 3650) + ' €.',
+      sparNote: total === 3650 ? 'Einnahmen 3.650,00 € → Noch frei 592,70 €.' : 'Einnahmen ' + eur(total) + ' € → Noch frei ' + eur(592.70 + total - 3650) + ' €.',
       recurring: s.items.filter(function (i) { return i.rec !== 'einmal'; }).map(function (i) { return { name: i.name, amt: eur(i.amt), when: i.when || recLabel[i.rec], open: openEdit(i) }; }),
       openNew: function () { self.setState({ sheet: 'new', editId: 0, fName: '', fAmt: '', fDate: '25.10.2026', frec: 'einmal', fst: 'in' }); },
       sheet: !!s.sheet, canDelete: s.sheet === 'edit',

diff --git a/docs/konzept-2.0.0/design/Kategorie.dc.html b/docs/konzept-2.0.0/design/Kategorie.dc.html
@@ -259,7 +259,7 @@ class Component extends DCLogic {
       nameDraft: s.nameDraft, setNameDraft: this.set('nameDraft'),
       kostenart: this.segItems('kostenart', [['var', 'Variabel'], ['fix', 'Fix'], ['kredit', 'Kredit']]),
       budgetDraft: s.budgetDraft, setBudgetDraft: this.set('budgetDraft'),
-      budgetNote: s.kostenart === 'fix' ? 'Fixkosten brauchen kein Budget – der Vertrag legt den Betrag fest. Ein Budget wirkt nur bei variabler Kostenart.' : (num(s.budgetDraft) > 0 ? 'Budget ' + eur(num(s.budgetDraft)) + ' € · Rest fließt in „Budgets noch offen“ und mindert das Sparpotenzial.' : 'Ohne Budget zählen nur die tatsächlichen Buchungen.'),
+      budgetNote: s.kostenart === 'fix' ? 'Fixkosten brauchen kein Budget – der Vertrag legt den Betrag fest. Ein Budget wirkt nur bei variabler Kostenart.' : (num(s.budgetDraft) > 0 ? 'Budget ' + eur(num(s.budgetDraft)) + ' € · Rest fließt in „Budgets noch offen“ und mindert Noch frei.' : 'Ohne Budget zählen nur die tatsächlichen Buchungen.'),
       saveEdit: function () { if (!s.nameDraft.trim()) { self.say('Name darf nicht leer sein'); return; } self.setState({ name: s.nameDraft.trim(), budget: s.kostenart === 'fix' ? '' : s.budgetDraft, edit: false }); self.say('Gespeichert'); },
       askHide: this.go('confirmHide', true), cancelHide: this.go('confirmHide', false), confirmHide: s.confirmHide,
       monthName: mi === 5 ? 'Oktober' : ({ Mai: 'Mai', Jun: 'Juni', Jul: 'Juli', Aug: 'August', Sep: 'September' })[mo[0]],

diff --git a/docs/konzept-2.0.0/design/Auswertung.dc.html b/docs/konzept-2.0.0/design/Auswertung.dc.html
@@ -200,7 +200,7 @@ a{color:#2A5480}
       <div class="sep"></div>
       <div class="f"><p class="l">Fixkosten</p><p class="v">19.910,40 € (45 %)</p></div>
       <div class="sep"></div>
-      <div class="f"><p class="l">Sparpotenzial</p><div class="vc"><p class="v">6.930,00 €</p><p class="v2">Ø 577,50</p></div></div>
+      <div class="f"><p class="l">Gespart</p><div class="vc"><p class="v">10.843,20 €</p><p class="v2">24 %</p></div></div>
     </div>
   </div>
 <sc-if value="{{exportSheet}}" hint-placeholder-val="{{false}}"><div class="sheetbg"><div class="sheet"><div class="grab"></div><h3>Export</h3><p>Zahlen dieser Auswertung als Datei – lokal erstellt, dann Teilen-Menü.</p><div class="card" style="margin-bottom: 12px"><div class="f"><p class="l">Format</p><div class="seg"><sc-for list="{{exFmt}}" as="s" hint-placeholder-count="2"><button class="{{s.cls}}" onClick="{{s.pick}}">{{s.label}}</button></sc-for></div></div><div class="sep"></div><div class="f"><p class="l">Zeitraum</p><div class="seg"><sc-for list="{{exRange}}" as="s" hint-placeholder-count="3"><button class="{{s.cls}}" onClick="{{s.pick}}">{{s.label}}</button></sc-for></div></div></div><div style="display: flex; gap: 10px"><button class="btn sec2" onClick="{{closeExport}}">Abbrechen</button><button class="btn pri" onClick="{{doExport}}">Erstellen</button></div></div></div></sc-if>

diff --git a/docs/konzept-2.0.0/design/Erfassen.dc.html b/docs/konzept-2.0.0/design/Erfassen.dc.html
@@ -241,7 +241,7 @@ class Component extends DCLogic {
       vendor: s.vendor, setVendor: this.set('vendor'), amount: s.amount, setAmount: this.set('amount'),
       cat: s.cat, setCat: this.set('cat'), due: s.due, setDue: this.set('due'), date: s.date, setDate: this.set('date'),
       payKind: this.segItems('payKind', [['karte', 'Karte'], ['bar', 'Bar'], ['kasse', 'Haushaltskasse']]),
-      formEffect: amt > 0 ? (manual && s.due ? eur(amt) + ' € offen bis ' + s.due + ' → „davon offen“ und Liquidität' : eur(amt) + ' € bezahlt → Ausgaben des Monats, Budget ' + s.cat.split(' › ')[1] + ' sinkt um ' + eur(amt) + ' €' + (s.payKind === 'kasse' ? ', Haushaltskasse −' + eur(amt) + ' €' : '')) : 'Betrag eingeben – die Wirkung auf Budget und Sparpotenzial erscheint hier.',
+      formEffect: amt > 0 ? (manual && s.due ? eur(amt) + ' € offen bis ' + s.due + ' → „davon offen“ und Liquidität' : eur(amt) + ' € bezahlt → Ausgaben des Monats, Budget ' + s.cat.split(' › ')[1] + ' sinkt um ' + eur(amt) + ' €' + (s.payKind === 'kasse' ? ', Haushaltskasse −' + eur(amt) + ' €' : '')) : 'Betrag eingeben – die Wirkung auf Budget und Noch frei erscheint hier.',
       saveLabel: manual ? 'Rechnung speichern' : 'Bon speichern',
       saveForm: function () {
         if (!(amt > 0)) { self.say('Bitte einen Betrag eingeben'); return; }

diff --git a/docs/konzept-2.0.0/design/VertragNeu.dc.html b/docs/konzept-2.0.0/design/VertragNeu.dc.html
@@ -235,8 +235,8 @@ class Component extends DCLogic {
     var res = s.resTouched ? s.res : cyc >= 6;
     var isFix = cyc <= 3 || !res;
     var effect = amt > 0
-      ? (isFix ? 'Fixkosten +' + eur(share) + ' €/Monat' : 'Rücklage-Rate +' + eur(share) + ' €/Monat, Abbuchung ' + eur(amt) + ' € am ' + s.due + ' aus der Rücklage') + ' → Sparpotenzial ' + eur(592.70 - share) + ' € statt 592,70 €. Bereich ' + s.area + ': ' + eur({ 'Wohnen': 1368.18, 'Mobilität': 746.19, 'Haushalt': 881.53 }[s.area] + share) + ' €.'
-      : 'Betrag eingeben – die Wirkung auf Fixkosten, Rücklage und Sparpotenzial erscheint hier.';
+      ? (isFix ? 'Fixkosten +' + eur(share) + ' €/Monat' : 'Rücklage-Rate +' + eur(share) + ' €/Monat, Abbuchung ' + eur(amt) + ' € am ' + s.due + ' aus der Rücklage') + ' → Noch frei ' + eur(592.70 - share) + ' € statt 592,70 €. Bereich ' + s.area + ': ' + eur({ 'Wohnen': 1368.18, 'Mobilität': 746.19, 'Haushalt': 881.53 }[s.area] + share) + ' €.'
+      : 'Betrag eingeben – die Wirkung auf Fixkosten, Rücklage und Noch frei erscheint hier.';
     return {
       toast: s.toast,
       name: s.name, setName: this.set('name'), vendor: s.vendor, setVendor: this.set('vendor'),

diff --git a/docs/konzept-2.0.0/design/Einstellungen.dc.html b/docs/konzept-2.0.0/design/Einstellungen.dc.html
@@ -248,7 +248,7 @@ class Component extends DCLogic {
     return {
       toast: s.toast,
       monatText: monat[s.monat], cycleMonat: this.cyc('monat', 3), windowText: win[s.win], cycleWindow: this.cyc('win', 3), remindText: rem[s.rem], cycleRemind: this.cyc('rem', 4),
-      monatNote: 'Übersicht zeigt „Fällig“ für Überfälliges und die nächsten ' + win[s.win] + '; Sparpotenzial rechnet ab ' + monat[s.monat] + '.',
+      monatNote: 'Übersicht zeigt „Fällig“ für Überfälliges und die nächsten ' + win[s.win] + '; Spielraum rechnet ab ' + monat[s.monat] + '.',
       kdCls: this.tog('kd'), flipKd: this.flip('kd'), ksCls: this.tog('ks'), flipKs: this.flip('ks'),
       calText: ['aus', 'Termine mit Erinnerung', 'alle Fälligkeiten (Rechnungen, Abbuchungen, Termine)'][s.cal], cycleCal: this.cyc('cal', 3),
       calNote: s.cal === 0 ? 'Kalender: nichts wird gespiegelt.' : (s.cal === 1 ? 'Kalender: HU, Wartung, Zählerstände erscheinen als Termine im iOS-Kalender „Mnemor“ – nur lesend gespiegelt, Daten bleiben in der App.' : 'Kalender: auch jede Rechnung und Abbuchung als ganztägiger Eintrag – gut für Familienkalender, aber voll.'),
